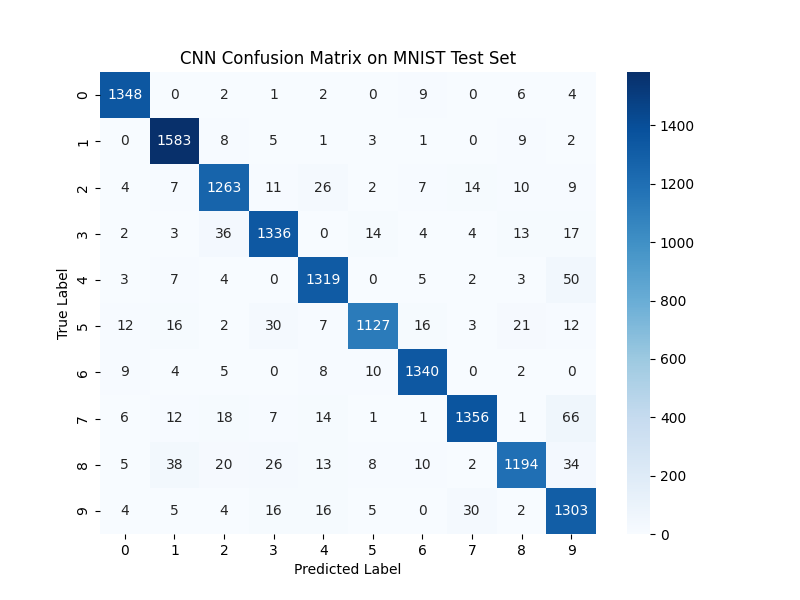
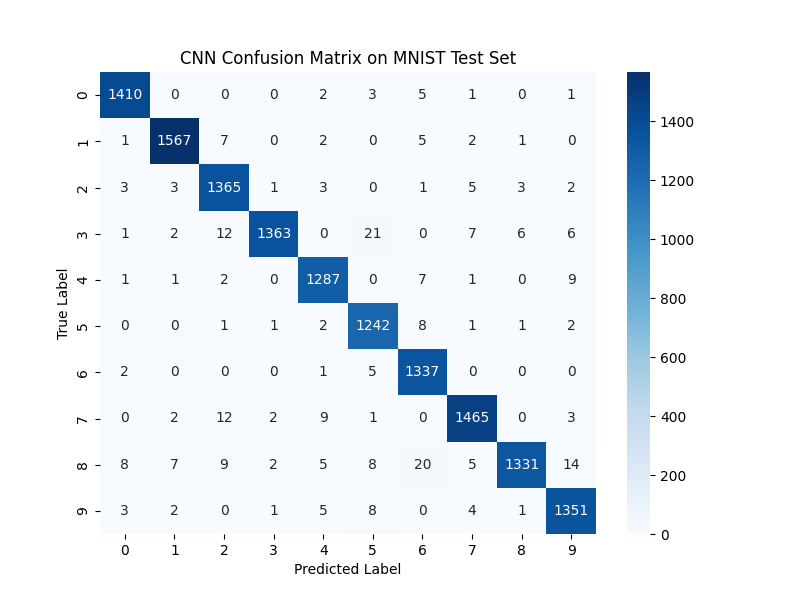
updated nn

diff --git a/mnist2.py b/mnist2.py
@@ -463,12 +463,14 @@ def train_cnn(cnn, X_train, y_train_oh, X_test, y_test_oh, num_epochs=20, batch_
 # -----------------------------
 # Instantiate and train the MLP
 # -----------------------------
+
+mlp_size = 20
+
 mlp = MLP(layer_sizes=[784, 128, 64, 10], activations=['relu', 'relu', 'linear'])
 print("Training MLP on MNIST...")
 mlp_train_losses, mlp_test_losses, mlp_train_acc, mlp_test_acc = train_mlp(mlp, X_train, y_train_oh, X_test, y_test_oh,
-                                                                           num_epochs=10, batch_size=128, learning_rate=0.01)
+                                                                           num_epochs=mlp_size, batch_size=128, learning_rate=0.01)
 
-mlp_size = 10
 epochs = np.arange(1, mlp_size+1)
 
 plt.figure(figsize=(12,5))
@@ -526,16 +528,16 @@ conv_configs = [
 ]
 fc_input_dim = 32 * 22 * 22
 fc_config = {'input_dim': fc_input_dim, 'output_dim': 10}
-
+cnn_size=10
 cnn = CNN(conv_configs, fc_config, conv_activation='relu', fc_activation='linear')
 print("\nTraining CNN on MNIST...")
 cnn_train_losses, cnn_test_losses, cnn_train_acc, cnn_test_acc = train_cnn(cnn, X_train, y_train_oh, X_test, y_test_oh,
-                                                                           num_epochs=2, batch_size=128, learning_rate=0.01)
+                                                                           num_epochs=cnn_size, batch_size=128, learning_rate=0.01)
 
 # -----------------------------
 # Plot convergence curves for MLP and CNN
 # -----------------------------
-cnn_size=2
+
 epochs = np.arange(1, cnn_size+1)
 plt.figure(figsize=(12,5))
 plt.subplot(1,2,1)
